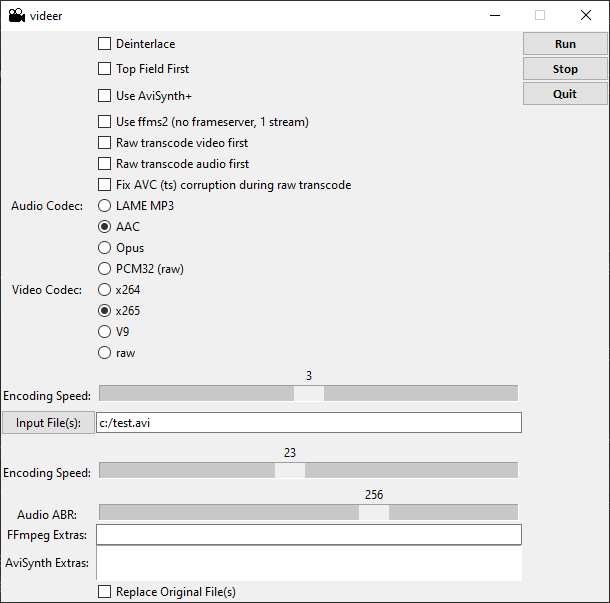
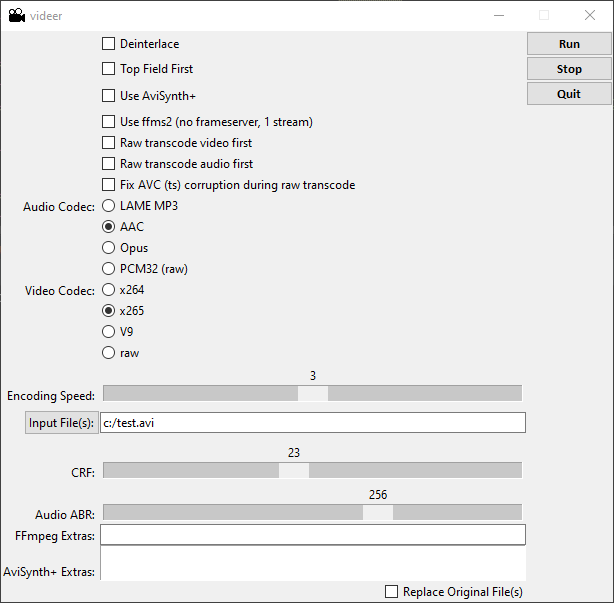
update

diff --git a/videer.py b/videer.py
@@ -372,7 +372,7 @@ class Application(Frame):
         self.audio_codec_label["text"] = "Audio Codec: "
         self.audio_codec_var = StringVar()
         self.audio_codec_var.set("aac")
-        self.audio_codec_label.grid(row=7, column=0, sticky='', pady=0, padx=0)
+        self.audio_codec_label.grid(row=7, column=0, sticky='SE', pady=0, padx=0)
 
         self.audio_codec_button = Radiobutton(self, text="LAME MP3", variable=self.audio_codec_var,
                                                  value="libmp3lame")
@@ -389,7 +389,7 @@ class Application(Frame):
         self.codec_label["text"] = "Video Codec: "
         self.codec_var = StringVar()
         self.codec_var.set("libx265")
-        self.codec_label.grid(row=11, column=0, sticky='', pady=0, padx=0)
+        self.codec_label.grid(row=11, column=0, sticky='SE', pady=0, padx=0)
 
         self.video_codec_button = Radiobutton(self, text="x264", variable=self.codec_var, value="libx264")
         self.video_codec_button.grid(row=11, column=1, sticky='w', pady=0, padx=0)
@@ -402,7 +402,7 @@ class Application(Frame):
 
         self.speed_label = Label(self)
         self.speed_label["text"] = "Encoding Speed: "
-        self.speed_label.grid(row=15, column=0, sticky='S', pady=0, padx=0)
+        self.speed_label.grid(row=15, column=0, sticky='SE', pady=0, padx=0)
 
         self.speed = tk.Scale(self, from_=0, to=6, orient=HORIZONTAL, sliderrelief=FLAT)
         self.speed.grid(row=15, column=1, sticky='WE', pady=0, padx=0)
@@ -413,21 +413,21 @@ class Application(Frame):
 
         self.infile_button = Button(self, text="Input File(s):",
                                        command=lambda: self.select_file(self.infile_value))
-        self.infile_button.grid(row=20, column=0, sticky='WE', padx=0, pady=(5))
+        self.infile_button.grid(row=20, column=0, sticky='SE', padx=0, pady=(5))
 
         self.infile = Entry(self, textvariable=self.infile_value, width=70)
         self.infile.grid(row=20, column=1, sticky='W', padx=0)
 
         self.crf_label = Label(self)
-        self.crf_label["text"] = "Encoding Speed: "
-        self.crf_label.grid(row=21, column=0, sticky='S', pady=0, padx=0)
+        self.crf_label["text"] = "CRF: "
+        self.crf_label.grid(row=21, column=0, sticky='SE', pady=0, padx=0)
         self.crf = tk.Scale(self, from_=0, to=51, orient=HORIZONTAL, sliderrelief=FLAT)
         self.crf.grid(row=21, column=1, sticky='WE', pady=0, padx=0)
         self.crf.set(23)
 
         self.abr_label = Label(self)
         self.abr_label["text"] = "Audio ABR: "
-        self.abr_label.grid(row=22, column=0, sticky='s', pady=0, padx=0)
+        self.abr_label.grid(row=22, column=0, sticky='SE', pady=0, padx=0)
 
         self.abr = tk.Scale(self, resolution=16, from_=0, to=384, orient=HORIZONTAL, sliderrelief=FLAT)
         self.abr.grid(row=22, column=1, sticky='WE', pady=0, padx=0)
@@ -435,7 +435,7 @@ class Application(Frame):
 
         self.extras_label = Label(self)
         self.extras_label["text"] = "FFmpeg Extras: "
-        self.extras_label.grid(row=23, column=0, sticky='', padx=0)
+        self.extras_label.grid(row=23, column=0, sticky='SE', padx=0)
         self.extras_value = StringVar()
         self.extras_value.set("")
         self.extras = Entry(self, textvariable=self.extras_value, width=70)
@@ -443,7 +443,7 @@ class Application(Frame):
 
         self.avisynth_extras_label = Label(self)
         self.avisynth_extras_label["text"] = "AviSynth+ Extras: "
-        self.avisynth_extras_label.grid(row=24, column=0, sticky='', padx=0)
+        self.avisynth_extras_label.grid(row=24, column=0, sticky='SE', padx=0)
         self.avisynth_extras = Text(self, height=2, width=30)
         self.avisynth_extras.grid(row=24, column=1, sticky='WE', pady=0, padx=0)
 
@@ -452,7 +452,7 @@ class Application(Frame):
         self.replace_button = Checkbutton(self, text="Replace Original File(s)",
                                              variable=self.replace_button_var)
 
-        self.replace_button.grid(row=25, column=1, sticky='w', pady=0, padx=0)
+        self.replace_button.grid(row=25, column=1, sticky='SE', pady=0, padx=0)
 
         self.run = Button(self, text="Run", style='W.TButton', command=lambda: self.run_cmd())
         self.run.grid(row=0, column=2, sticky='WE', padx=0)
